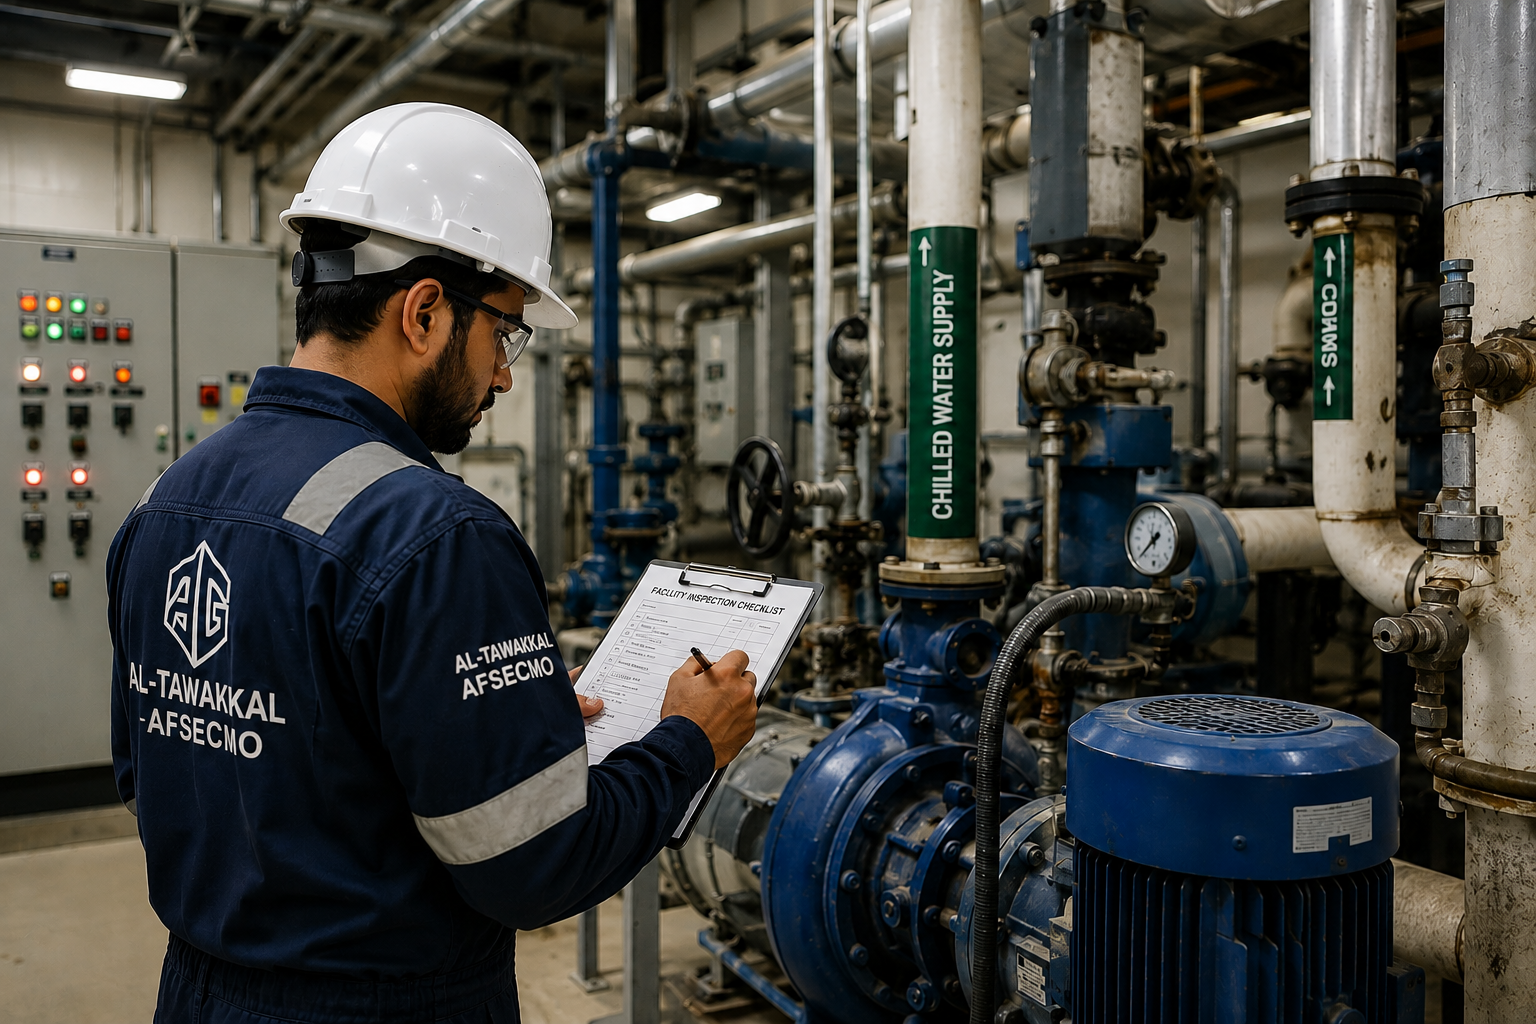
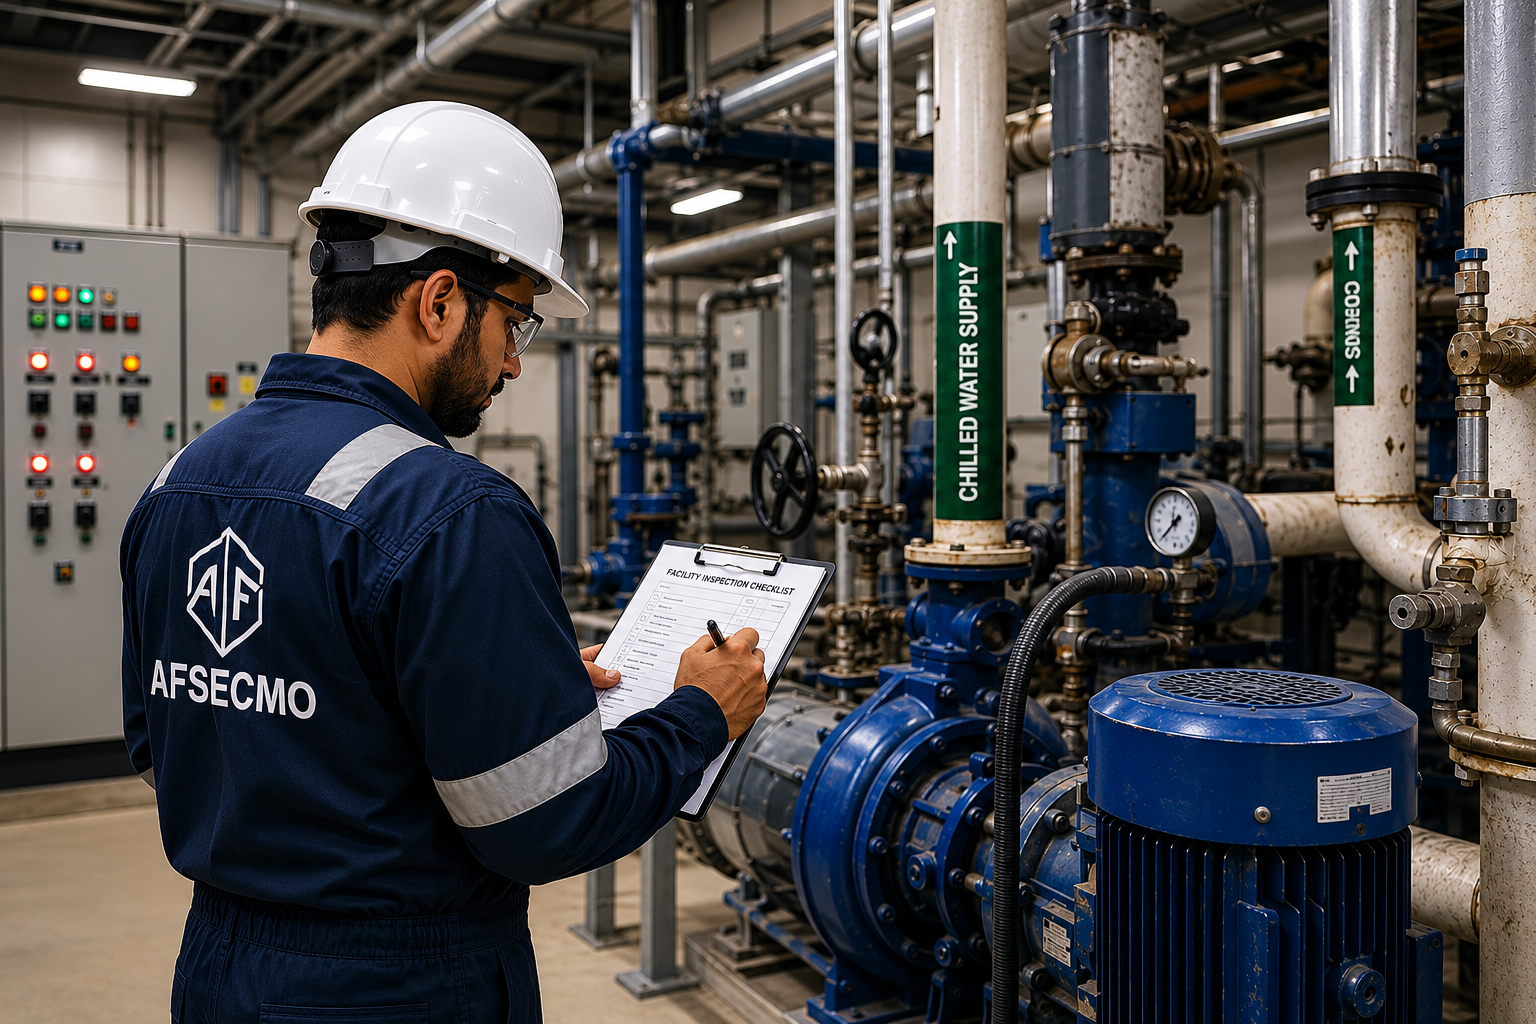
Update content, assets, and routing fixes

diff --git a/src/components/i18n/I18nProvider.tsx b/src/components/i18n/I18nProvider.tsx
@@ -1,0 +1,55 @@
+"use client";
+
+import { useEffect, useMemo } from "react";
+import i18next, { type i18n as I18nInstance } from "i18next";
+import { initReactI18next, I18nextProvider } from "react-i18next";
+import enCommon from "@/i18n/locales/en/common.json";
+import enHome from "@/i18n/locales/en/home.json";
+import enContent from "@/i18n/locales/en/content.json";
+import frCommon from "@/i18n/locales/fr/common.json";
+import frHome from "@/i18n/locales/fr/home.json";
+import frContent from "@/i18n/locales/fr/content.json";
+import type { Locale } from "@/i18n/locales";
+
+const resources = {
+  en: {
+    common: enCommon,
+    home: enHome,
+    content: enContent,
+  },
+  fr: {
+    common: frCommon,
+    home: frHome,
+    content: frContent,
+  },
+};
+
+let i18nInstance: I18nInstance | null = null;
+
+function getI18n() {
+  if (!i18nInstance) {
+    i18nInstance = i18next.createInstance();
+    i18nInstance.use(initReactI18next).init({
+      resources,
+      lng: "en",
+      fallbackLng: "en",
+      supportedLngs: ["en", "fr"],
+      defaultNS: "common",
+      ns: ["common", "home", "content"],
+      interpolation: { escapeValue: false },
+      react: { useSuspense: false },
+    });
+  }
+
+  return i18nInstance;
+}
+
+export default function I18nProvider({ locale, children }: { locale: Locale; children: React.ReactNode }) {
+  const i18n = useMemo(() => getI18n(), []);
+
+  useEffect(() => {
+    void i18n.changeLanguage(locale);
+  }, [i18n, locale]);
+
+  return <I18nextProvider i18n={i18n}>{children}</I18nextProvider>;
+}

diff --git a/src/components/layout/Navbar.tsx b/src/components/layout/Navbar.tsx
@@ -11,6 +11,7 @@ import { type Locale } from "@/i18n/locales";
 import { stripLocale, withLocalePath } from "@/i18n/routing";
 
 const navItems = [
+  { key: "home", href: "/" },
   { key: "about", href: "/about" },
   { key: "services", href: "/services" },
   { key: "sectors", href: "/sectors" },
@@ -121,7 +122,7 @@ export default function Navbar() {
           <div className="flex items-center gap-4 lg:gap-8 ml-auto shrink-0">
             
             {/* Minimal Architectural Segmented Language Switcher */}
-            <div className="hidden sm:flex items-center bg-slate-900/40 p-1 rounded-lg border border-slate-700/60 backdrop-blur-md relative overflow-hidden h-9 w-[88px]">
+            <div className="hidden sm:flex items-center bg-slate-900/40 p-1 rounded-lg border border-slate-700/60 backdrop-blur-md relative overflow-hidden h-9 w-22">
               
               {/* Sliding Highlight Layer */}
               <motion.div
@@ -162,11 +163,11 @@ export default function Navbar() {
               {/* Mobile logo */}
               <div className="lg:hidden h-8 w-auto flex items-center">
                 <Image
-                  src="/logo.jpeg"
+                  src="/logo.png"
                   alt="Logo"
                   width={240}
                   height={60}
-                  className="h-full w-auto max-w-[120px] object-contain"
+                  className="h-full w-auto max-w-30 object-contain"
                   priority
                 />
               </div>
@@ -178,7 +179,7 @@ export default function Navbar() {
                   alt="Logo"
                   width={240}
                   height={60}
-                  className="h-full w-auto max-w-[180px] object-contain"
+                  className="h-full w-auto max-w-45 object-contain"
                   priority
                 />
               </div>
@@ -207,9 +208,9 @@ export default function Navbar() {
               animate={{ x: 0 }}
               exit={{ x: "100%" }}
               transition={{ duration: 0.45, ease: easeExp }}
-              className="fixed inset-y-0 right-0 z-50 flex w-[min(380px,90vw)] flex-col bg-gradient-to-b from-slate-800 to-slate-900 shadow-2xl"
+              className="fixed inset-y-0 right-0 z-50 flex w-[min(380px,90vw)] flex-col bg-linear-to-b from-slate-800 to-slate-900 shadow-2xl"
             >
-              <div className="absolute left-0 top-0 h-full w-1 bg-gradient-to-b from-orange-500 to-transparent opacity-80" />
+              <div className="absolute left-0 top-0 h-full w-1 bg-linear-to-b from-orange-500 to-transparent opacity-80" />
 
               <div className="relative flex items-center justify-between border-b border-slate-700 px-6 py-6">
                 <Link href="/" onClick={() => setMobileOpen(false)}>
@@ -219,7 +220,7 @@ export default function Navbar() {
                       alt="Logo" 
                       width={240}
                       height={60}
-                      className="h-full w-auto max-w-[120px] object-contain"
+                      className="h-full w-auto max-w-30 object-contain"
                       priority 
                     />
                   </div>

diff --git a/src/components/layout/ContactLayout.tsx b/src/components/layout/ContactLayout.tsx
@@ -130,8 +130,8 @@ export default function ContactLayout() {
                 <p className="text-[10px] font-bold uppercase tracking-[0.2em] text-[#777]">
                   {details.phoneLabel || "PHONE"}
                 </p>
-                <a href="tel:[phone redacted]" className="mt-2 block text-lg font-light text-[#111] transition-colors hover:text-[#FF6B00]">
-                  [phone redacted]
+                <a href="tel:[phone redacted]" className="mt-2 block text-lg font-light text-[#111] transition-colors hover:text-[#FF6B00]">
+                  [phone redacted] 77
                 </a>
               </div>
             </motion.div>

diff --git a/src/app/careers/page.tsx b/src/app/careers/page.tsx
@@ -229,7 +229,7 @@ export function CareersContent() {
                     {[
                       { label: "Full name", name: "fullName", placeholder: "Jordan Smith" },
                       { label: "Email", name: "email", placeholder: "[email redacted]" },
-                      { label: "Phone", name: "phone", placeholder: "[phone redacted]" },
+                      { label: "Phone", name: "phone", placeholder: "[phone redacted] 77" },
                     ].map((field) => (
                       <label key={field.name} className="block">
                         <span className="mb-3 block text-sm font-semibold text-white">{field.label}</span>